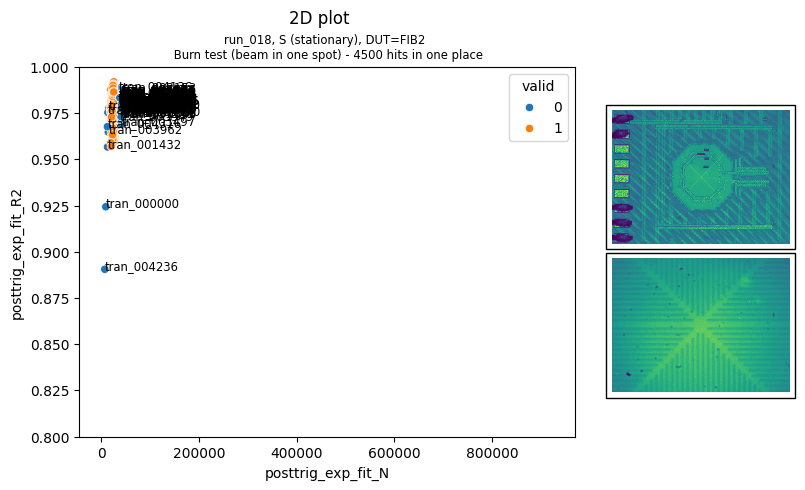
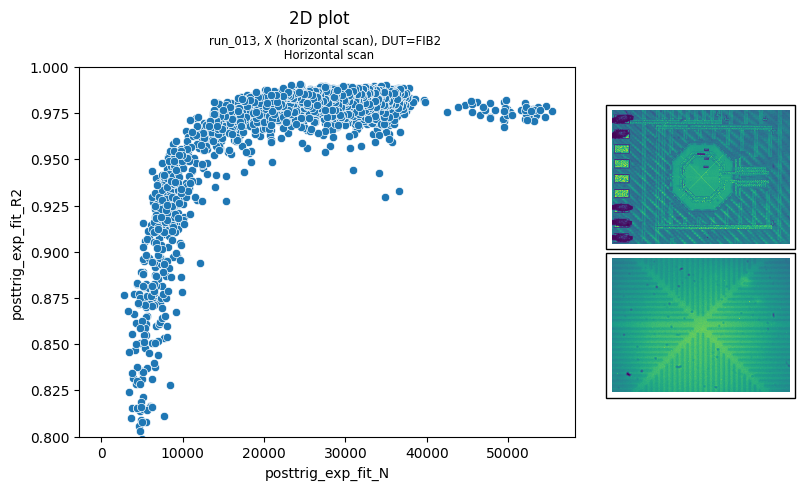
Major progress on segmentation & isolation forest

diff --git a/new/model_isolationforest_windowed.py b/new/model_isolationforest_windowed.py
@@ -1,0 +1,147 @@
+import os
+from matplotlib import pyplot as plt
+import pandas as pd
+import argparse
+import numpy as np
+import seaborn as sns
+from sklearn.inspection import DecisionBoundaryDisplay
+from isotree import IsolationForest
+
+from config import DATA_FEATURES_DIRECTORY
+from utils import generatePlotTitle
+
+FEATURE_1 = "pretrig_std"
+FEATURE_2 = "posttrig_exp_fit_λ"
+
+BLOCK_SIZE_X = 1000
+BLOCK_SIZE_Y = 1000
+BLOCK_OVERLAP = 0
+
+
+def segment_dataframe(df, block_size_x, block_size_y, overlap_percentage):
+    # Calculate overlap in terms of absolute values
+    overlap_x = (block_size_x * overlap_percentage) / 100
+    overlap_y = (block_size_y * overlap_percentage) / 100
+
+    # Create new columns for block_x and block_y with overlap
+    df["block_x"] = df["x_lsb"].apply(
+        lambda x: x // (block_size_x - overlap_x) * (block_size_x - overlap_x)
+    )
+    df["block_y"] = df["y_lsb"].apply(
+        lambda y: y // (block_size_y - overlap_y) * (block_size_y - overlap_y)
+    )
+
+    # Group the DataFrame by the block_x and block_y columns
+    blocks = df.groupby(["block_x", "block_y"])
+
+    return blocks
+
+
+def prefit_reject(df):
+    return df[df["pretrig_std"] < 1000]
+
+
+def isolation_forest(df, run_number):
+    df_2d = df[[FEATURE_1, FEATURE_2]]
+
+    # Init classifiers
+    models = {}
+
+    models["iforest"] = IsolationForest(
+        ndim=1, ntrees=100, missing_action="fail", n_jobs=-1
+    )
+
+    models["ext_iforest"] = IsolationForest(
+        ndim=2, ntrees=100, missing_action="fail", n_jobs=-1
+    )
+
+    models["sciforest"] = IsolationForest(
+        ndim=2,
+        ntrees=100,
+        missing_action="fail",
+        coefs="normal",
+        prob_pick_avg_gain=1,
+        n_jobs=-1,
+    )
+
+    models["fcf"] = IsolationForest(
+        ndim=2,
+        ntrees=100,
+        missing_action="fail",
+        prob_pick_pooled_gain=1,
+        n_jobs=-1,
+    )
+
+    models["dens_iforest"] = IsolationForest(
+        ndim=2,
+        ntrees=100,
+        missing_action="fail",
+        scoring_metric="density",
+        n_jobs=-1,
+    )
+
+    models["bdens_iforest"] = IsolationForest(
+        ndim=1,
+        ntrees=100,
+        missing_action="fail",
+        scoring_metric="boxed_ratio",
+        n_jobs=-1,
+    )
+
+    fig, ax = plt.subplots(nrows=3, ncols=2, figsize=(15, 10))
+    ax = ax.T.flatten()
+    fig.tight_layout(pad=5)
+
+    for z, (name, clf) in enumerate(models.items()):
+        clf.fit(df_2d)
+        y_pred_scores = clf.decision_function(df_2d)
+        threshold = 0.5
+        y_pred = [0 if score < threshold else 1 for score in y_pred_scores]
+
+        # print("------")
+        # print(f"predicted inliers: {len(np.where(y_pred == 0))}")
+        # print(f"predicted outliers: {len(np.where(y_pred == 1))}")
+        # print("------")
+
+        disp = DecisionBoundaryDisplay.from_estimator(
+            clf, df_2d, response_method="decision_function", alpha=0.5, ax=ax[z]
+        )
+        disp.ax_.scatter(df_2d[FEATURE_1], df_2d[FEATURE_2], c=y_pred, s=20, edgecolor="k")
+        disp.ax_.set_title(name)
+        fig.colorbar(disp.ax_.collections[1])
+
+        # Add transient names to points
+        for i, j in enumerate(list(df.index.values)):
+            if y_pred[i] == -1:
+                ax[z].text(
+                    df[FEATURE_1][j],
+                    df[FEATURE_2][j],
+                    df["transient"][j],
+                    fontsize="small",
+                )
+
+        # ax[z].set_ylim(-0.1, 1.1)
+
+    fig.suptitle("Comparison of Forest models")
+    plt.savefig(f"plots/test.png", bbox_inches="tight")
+    plt.close()
+
+    input()
+
+    return y_pred
+
+
+# Initialise argument parser
+parser = argparse.ArgumentParser()
+parser.add_argument("run_number", type=int)
+args = parser.parse_args()
+run_number = args.run_number
+
+# Combine labeled data with unlabeled extracted features
+df = pd.read_csv(os.path.join(DATA_FEATURES_DIRECTORY, f"run_{run_number:03d}.csv"))
+
+# Manually reject transients with certain invalid characteristics
+df = prefit_reject(df)
+
+blocks = segment_dataframe(df, BLOCK_SIZE_X, BLOCK_SIZE_Y, BLOCK_OVERLAP)
+preds = blocks.apply(isolation_forest, run_number)

diff --git a/new/plot_features_2d_nolabel.py b/new/plot_features_2d_nolabel.py
@@ -1,0 +1,47 @@
+import os
+import pandas as pd
+import numpy as np
+import seaborn as sns
+import argparse
+import random
+from sklearn.decomposition import PCA
+from sklearn.preprocessing import StandardScaler
+import matplotlib.pyplot as plt
+
+from config import DATA_FEATURES_DIRECTORY, DATA_LABELED_DIRECTORY
+from utils import generatePlotTitle
+
+FEATURE_1 = "posttrig_exp_fit_N"
+FEATURE_2 = "posttrig_exp_fit_R2"
+
+# Initialise argument parser
+parser = argparse.ArgumentParser()
+parser.add_argument("run_number", type=int)
+args = parser.parse_args()
+run_number = args.run_number
+
+# Combine features with labeled data
+df = pd.read_csv(
+    os.path.join(DATA_FEATURES_DIRECTORY, f"run_{run_number:03d}.csv")
+)
+
+# Plot result
+fig, ax = plt.subplots()
+sns.scatterplot(x=FEATURE_1, y=FEATURE_2, data=df, ax=ax)
+
+
+# xdata = df[FEATURE_1]
+# ydata = df[FEATURE_2]
+# for i in range(len(xdata)):
+    # ax.text(xdata[i], ydata[i], df["transient"][i], fontsize="small").set_clip_on(
+    #     True
+    # )
+
+ax.set_xlabel(FEATURE_1)
+ax.set_ylabel(FEATURE_2)
+
+ax.set_ylim(0.8, 1)
+
+generatePlotTitle(ax, "2D plot", run_number)
+
+plt.savefig(f"plots/2d.png", bbox_inches="tight")

diff --git a/new/feature_extraction.py b/new/feature_extraction.py
@@ -72,12 +72,11 @@ def process_transient(h5_path, tran_name):
         len_posttrig = h5file["sdr_data"].attrs["sdr_info_len_posttrig"]
         dsp_ntaps = h5file["sdr_data"].attrs["dsp_info_pre_demod_lpf_taps"]
         event_len = len_pretrig + len_posttrig - dsp_ntaps
-        baseline_freq = transient.attrs["baseline_freq_mean_hz"]
 
         # Get additional transient meta data
         # TODO subtract baseline variance from this transients to get a delta, use that as feature instead of pretrig std
         baseline_freq = transient.attrs["baseline_freq_mean_hz"]
-        baseline_freq_var = transient.attrs["baseline_freq_mean_hz"]
+        baseline_freq_std = transient.attrs["baseline_freq_std_hz"]
         x_lsb = transient.attrs["x_lsb"]
         y_lsb = transient.attrs["y_lsb"]
 

diff --git a/new/test.py b/new/test.py
@@ -1,0 +1,20 @@
+import numpy as np
+from isotree import IsolationForest
+
+### Random data from a standard normal distribution
+np.random.seed(1)
+n = 100
+m = 2
+X = np.random.normal(size = (n, m))
+
+### Will now add obvious outlier point (3, 3) to the data
+X = np.r_[X, np.array([3, 3]).reshape((1, m))]
+
+### Fit a small isolation forest model
+iso = IsolationForest(ntrees = 10, nthreads = 1)
+iso.fit(X)
+
+### Check which row has the highest outlier score
+pred = iso.predict(X)
+print("Point with highest outlier score: ",
+      X[np.argsort(-pred)[0], ])

diff --git a/new/plot_transient.py b/new/plot_transient.py
@@ -154,9 +154,11 @@ with h5py.File(h5_path, "r") as h5file:
 
     axis.set_title(f"Moving Average ({tran_name})")
 
+    min = np.min(tran_freq_ds)
+    min = min * 1.1
     max = np.max(tran_freq_ds)
     max = max * 1.1
-    axis.set_ylim(-5e3, max)
+    axis.set_ylim(min, max)
 
     axis.set_xlabel("Time (s)")
     axis.set_ylabel("Delta frequency (Hz)")

diff --git a/new/utils.py b/new/utils.py
@@ -8,7 +8,7 @@ from matplotlib.offsetbox import OffsetImage, AnnotationBbox
 
 from config import RUN_LOGBOOK_PATH, RUN_DUTPICS_DIRECTORY
 
-
+#TODO use h5 run meta data instead of combining with logbook.xlsx
 def generatePlotTitle(ax: matplotlib.axes.Axes, title, run_number):
     plt.suptitle(title, y=1)
 
